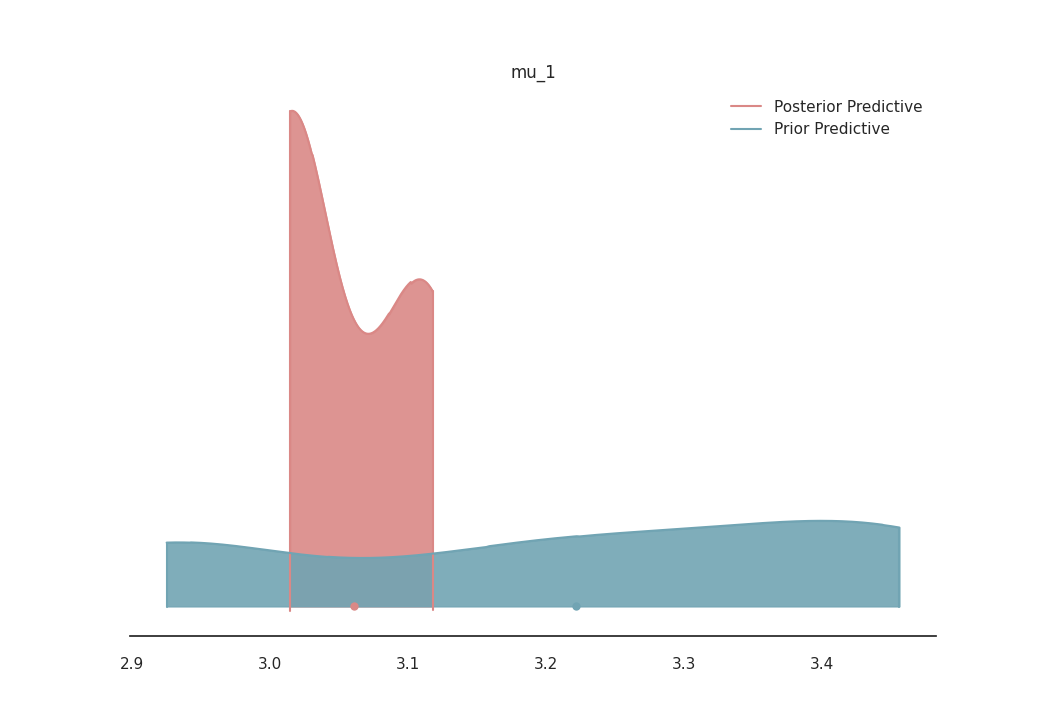
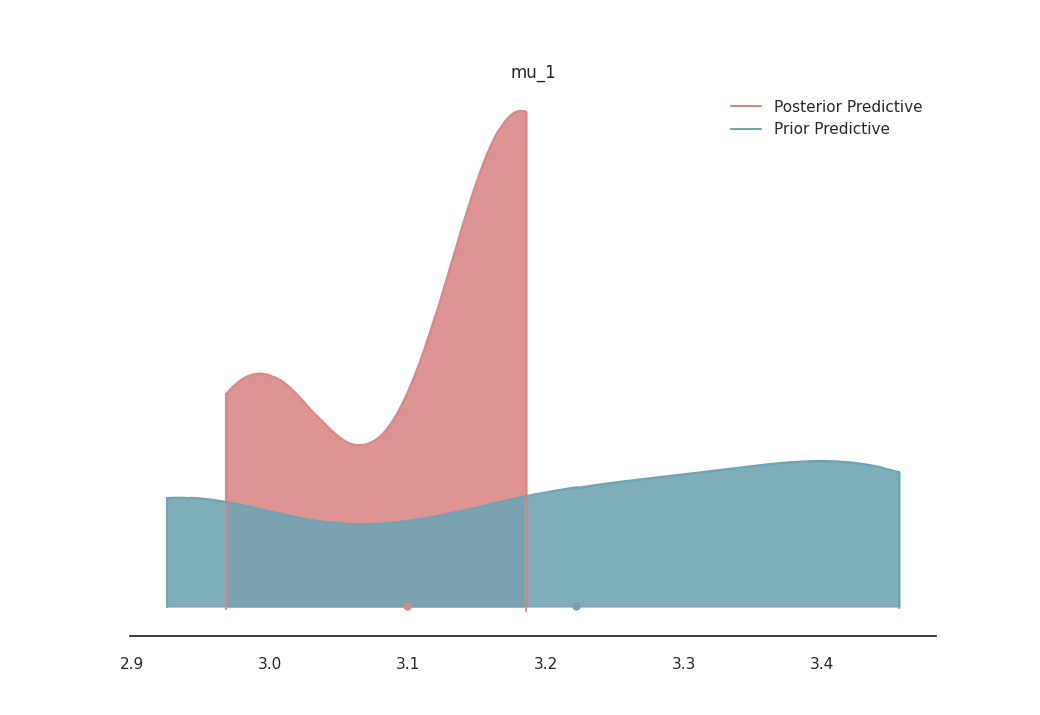
added task and get the summary of posterior samples

Changed region(s): [[0.1538, 0.1538, 0.8923, 0.8]]

diff --git a/run.py b/run.py
@@ -42,7 +42,7 @@ parser.add_argument('--prior_number_samples', metavar='prior_number_samples', ty
 parser.add_argument('--posterior_number_samples', metavar='posterior_number_samples', type=int , default=4, help='number of samples for posterior')
 parser.add_argument('--posterior_warmup_steps', metavar='posterior_warmup_steps', type=int , default=0, help='number of  warmup steps for posterior')
 parser.add_argument('--directory_path', metavar='directory_path', type=str , default="./Results_test", help='name of the directory in which result should be stored')
-parser.add_argument('--posterior_num_chain', metavar='posterior_num_chain', type=int , default=1, help='number of chain')
+parser.add_argument('--posterior_num_chain', metavar='posterior_num_chain', type=int , default=2, help='number of chain')
 
 def cluster_acc(Y_pred, Y, ignore_label=None):
     """ Rearranging the class labels of prediction so that it maximise the 
@@ -688,6 +688,10 @@ def main():
     mcmc.run(normalised_hsi)
     
     posterior_samples = mcmc.get_samples()
+    sumarry = mcmc.summary()
+    filename_summarry = directory_path + "/sumarry.csv"
+    mcmc.write_csv(filename_summarry)
+    print(posterior_samples)
     posterior_predictive = Predictive(model_test, posterior_samples)(normalised_hsi)
     plt.figure(figsize=(8,10))
     data = az.from_pyro(posterior=mcmc, prior=prior, posterior_predictive=posterior_predictive)

diff --git a/Task.md b/Task.md
@@ -8,3 +8,6 @@
      3. Prior on mean and covariance
 4. Automate the code wherever possible
 5. Add the model with Mean also along with Mode
+6. Add the sumarry report of posterior
+7. Store and plot data for each chain
+
